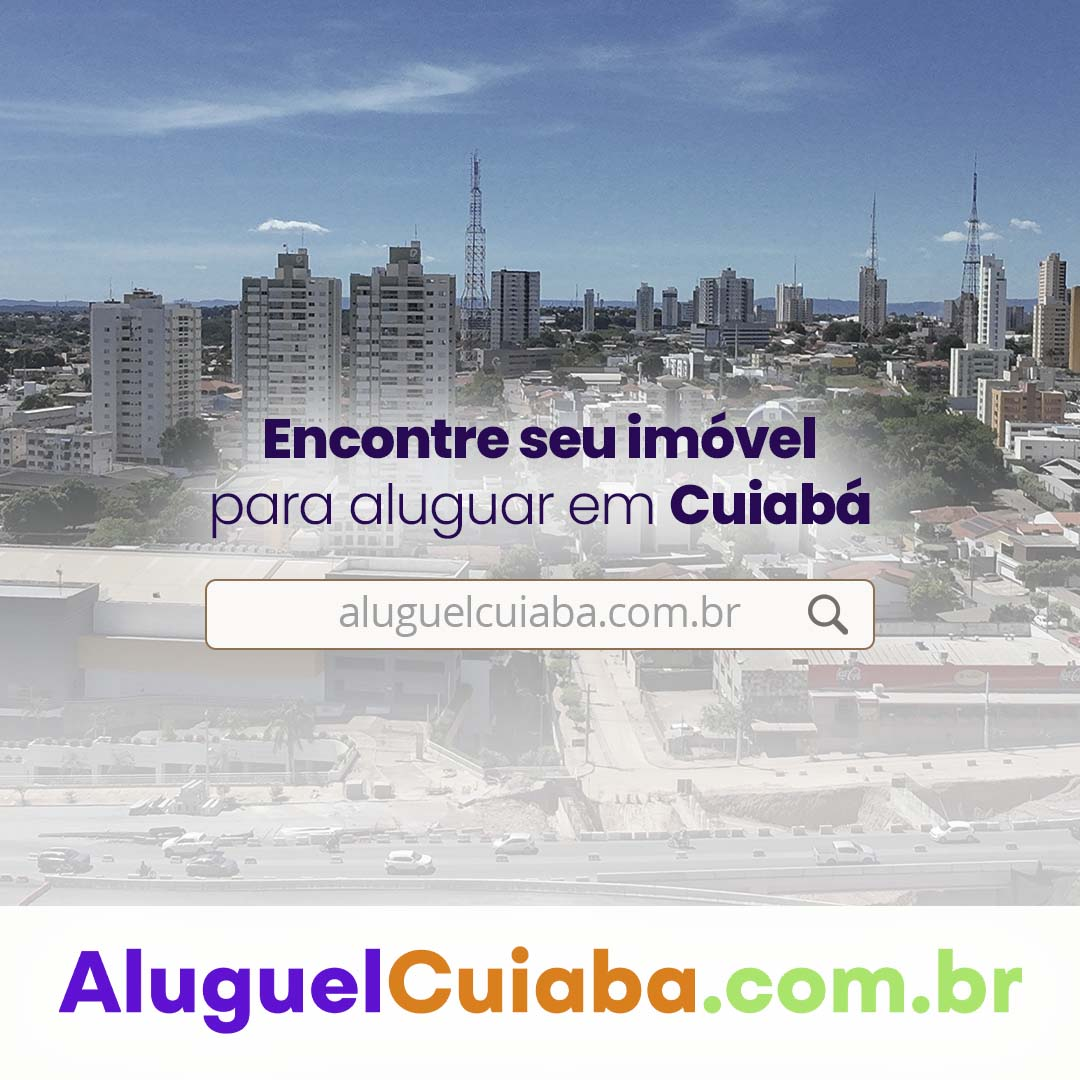
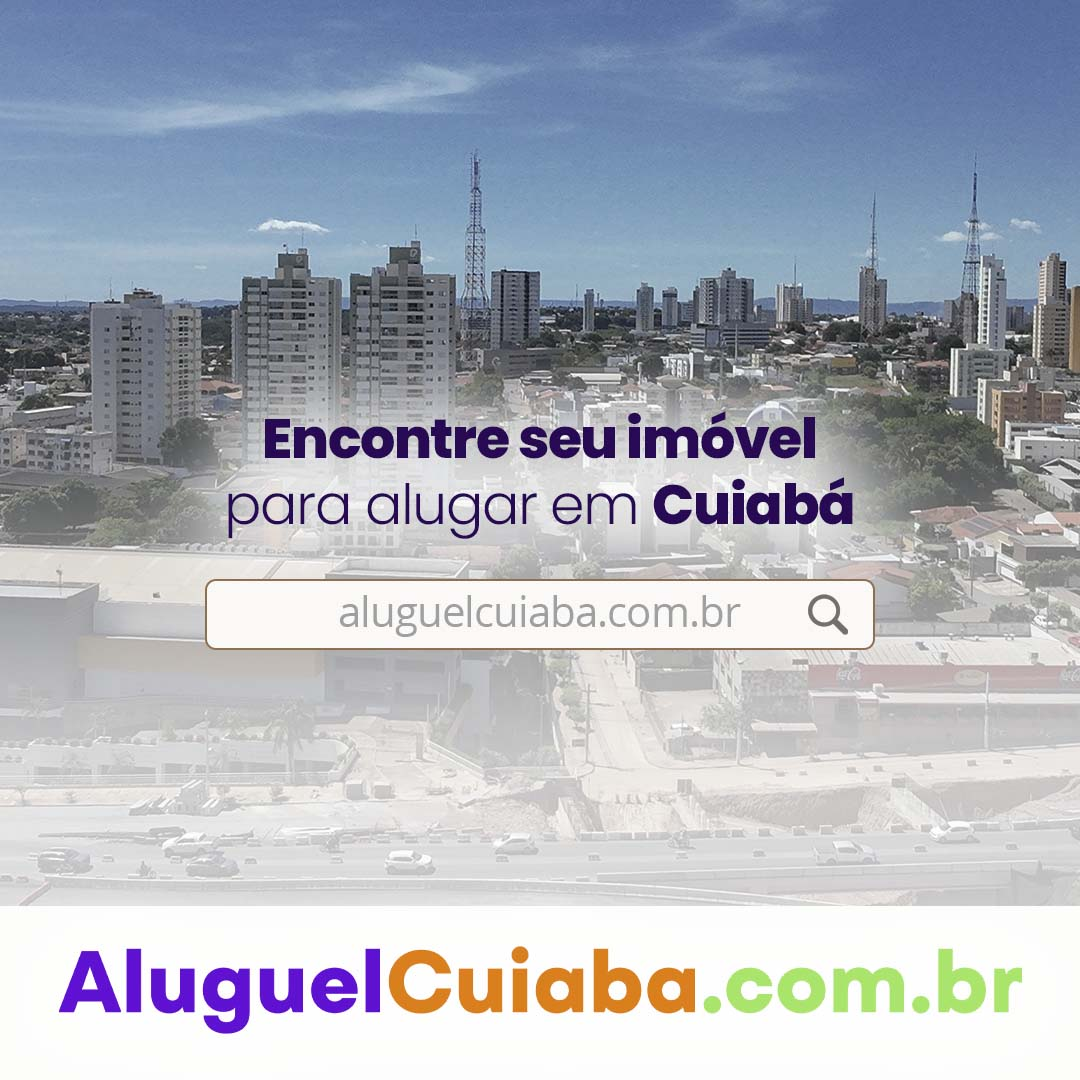
fix: trocar imagem og-default e remover MT da mensagem WPP
- Nova imagem padrão OG sem erro de português
- Mensagem WhatsApp mostra 'Bairro, Cuiabá' no lugar de 'Bairro, MT'

Changed region(s): [[0.1833, 0.4278, 0.825, 0.5194]]

diff --git a/src/lib/utils.ts b/src/lib/utils.ts
@@ -38,7 +38,7 @@ export function gerarMensagemWhatsApp(
     'Olá! Vi o imóvel abaixo no AluguelCuiabá e tenho interesse:',
     `*${titulo}*`,
   ]
-  if (bairro) linhas.push(`\u{1F4CD} ${bairro}, MT`)
+  if (bairro) linhas.push(`\u{1F4CD} ${bairro}, Cuiabá`)
   if (opts?.preco) linhas.push(`\u{1F4B0} ${formatarPreco(opts.preco)}/mês`)
   if (opts?.partes?.length) linhas.push(`\u{1F3E0} ${opts.partes.join(' · ')}`)
   if (opts?.link) { linhas.push(''); linhas.push(opts.link) }

diff --git a/src/components/barra-acoes-imovel.tsx b/src/components/barra-acoes-imovel.tsx
@@ -39,7 +39,7 @@ export function BarraAcoesImovel({ imovel }: { imovel: Imovel }) {
   const compartilharWhatsApp = () => {
     const msg = [
       `*${imovel.titulo}*`,
-      `\u{1F4CD} ${imovel.bairro?.nome ?? 'Cuiabá'}, MT`,
+      `\u{1F4CD} ${imovel.bairro?.nome ?? 'Cuiabá'}${imovel.bairro?.nome ? ', Cuiabá' : ''}`,
       `\u{1F4B0} ${formatarPreco(imovel.preco)}/mês`,
       partes.length > 0 ? `\u{1F3E0} ${partes.join(' · ')}` : '',
       '',

diff --git a/src/app/(public)/imoveis/[id]/page.tsx b/src/app/(public)/imoveis/[id]/page.tsx
@@ -85,7 +85,7 @@ export default async function ImovelPage({ params }: Props) {
   )
   const msgCompartilhar = [
     `*${imovel.titulo}*`,
-    `\u{1F4CD} ${imovel.bairro?.nome ?? 'Cuiabá'}, MT`,
+    `\u{1F4CD} ${imovel.bairro?.nome ?? 'Cuiabá'}${imovel.bairro?.nome ? ', Cuiabá' : ''}`,
     `\u{1F4B0} ${formatarPreco(imovel.preco)}/mês`,
     partesDetalhes.length > 0 ? `\u{1F3E0} ${partesDetalhes.join(' · ')}` : '',
     '',
